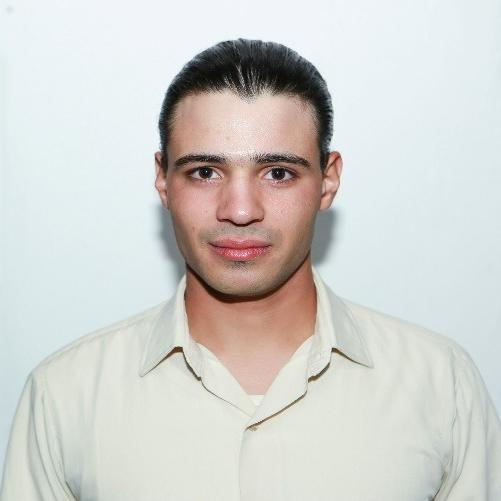
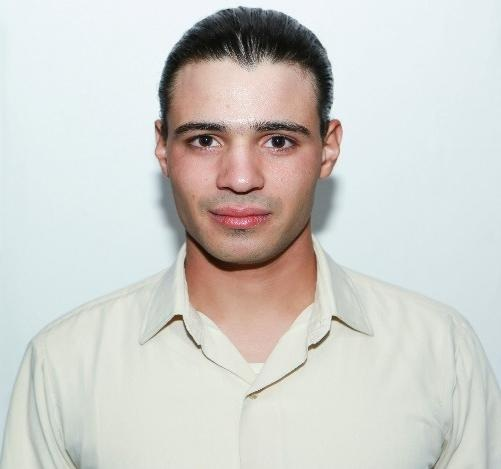
New color palette, general responsiveness, and custom navbar toggler implementation

diff --git a/src/css/Banner.css b/src/css/Banner.css
@@ -8,21 +8,21 @@ h1 {
 }
 
 #first-col {
+  min-height: 20rem;
   background-color: var(--color-primary);
-  flex-direction: column;
-  justify-content: space-between;
+  justify-content: flex-start;
 }
 
-.main-hero {
-  display: flex;
-  justify-content: space-between;
+/* animación de 'tipeo' */
+.typing-banner,
+.hero-image {
+  flex: 1 1 0;
+  min-width: 0;
 }
 
 .typing-banner {
-  display: inline-block;
-  min-height: 1.2rem;
-  max-width: 50%;
-  height: 15.9rem;
+  grid-area: txt;
+  min-width: 0;
   color: var(--color-accent);
   font-weight: 700;
 }
@@ -31,40 +31,50 @@ span.typing-cursor {
   font-size: .8em;
   display: inline-block;
   margin-left: 2px;
-  animation: blink 0.8s steps(2, start) infinite;
+  animation: blink 1s step-end infinite;
 }
 
 @keyframes blink {
-  to {
-    visibility: hidden;
+  0%, 100% {
+    opacity: 1;
   }
-}
-
-/* typing-cursor */
-.typing-cursor {
-  display: inline-block;
-  animation: blink 0.7s step-end infinite;
-}
-
-@keyframes blink {
-  50% {
+  60% {
     opacity: 0;
   }
 }
 
+/* Hero Banner Responsiveness */
+.hero-layout {
+  display: grid;
+  grid-template-columns: minmax(0, 1fr) minmax(0, 1fr);
+  grid-template-areas:
+    "txt img"
+    ".    btn";
+  height: 100%;
+  min-width: 0;
+  gap: 1.3rem 1.8rem;
+}
+
 .hero-image {
-  display: block;
-  flex: 0 0 calc(50% - 1rem);
+  grid-area: img;
   width: 100%;
   height: 20rem;
+  min-width: 0;
+  overflow: hidden;
 }
 .hero-image img {
   display: block;
   width: 100%;
   height: 100%;
-  object-fit: scale-down;
+  object-fit: cover;
+  object-position: center top;
 }
 
+.btn-content {
+  grid-area: btn;
+  justify-self: end;
+  align-self: end;
+}
 .btn-cta {
   display: inline-flex;
   background-color: var(--color-surface);
@@ -80,18 +90,72 @@ span.typing-cursor {
 }
 
 .btn-cta:hover {
-  transform: translateY(-2px);
+  transform: translate(-1px, -1px);
   box-shadow: 0 5px 14px rgba(0, 0, 0, 0.15);
 }
 
-@media (max-width: 576px) {
-  .hero-main {
-    flex-direction: column;
-    align-items: stretch;
+@media (max-width: 1999px) {
+  .hero-layout {
+    grid-template-columns: minmax(0, 1fr) auto;
+    grid-template-areas:
+      "txt   txt"
+      "img   btn";
+    align-items: end;
+    gap: 1rem 1.5rem;
+  }
+
+  .typing-banner {
+    min-height: 7rem;
+    height: auto;
+    margin-inline: 0 !important;
   }
 
   .hero-image {
-    flex-basis: auto;
+    height: clamp(18.5rem, 30vw, 26rem);
+    max-width: 26rem;
+  }
+
+  .btn-content {
+    margin-top: 1.5rem;
+  }
+}
+@media (max-width: 1060px) {
+  .hero-image {
+    max-width: 22rem;
+  }
+}
+@media (max-width: 764.99px) {
+  .hero-layout {
+    grid-template-columns: minmax(0, 1fr);
+    grid-template-areas:
+      "txt"
+      "img"
+      "btn";
+    row-gap: 1.25rem;
+  }
+  .hero-image {
+    max-width: 18rem;
+  }
+}
+@media (max-width: 868px) {
+  .typing-banner {
+    min-height: 6.5rem;
+  }
+}
+@media (max-width: 668px) {
+  .typing-banner {
+    min-height: 8.5rem;
+  }
+}
+@media (max-width: 548px) {
+  .typing-banner {
+    min-height: 7.7rem;
+  }
+}
+
+@media (max-width: 1999px) {
+  #second-col {
+    margin-top: 1rem;
   }
 }
 

diff --git a/src/components/Banner.jsx b/src/components/Banner.jsx
@@ -79,26 +79,26 @@ export const Banner = () => {
 
     const Carousel = CarouselModule.default; // parche de error de importación desconocido
 
-    return (        
-        <section id="home" className="p-3 pt-0">
+    return (
+        <section id="home" className="p-3 pt-0 mt-1">
             <Container fluid>
                 <Row className="my-3 mt-0">
-                    <Col id="first-col" className="p-4 rounded-5 d-flex">
-                        <div className="main-hero d-flex justify-content-between">
-                            <div className="mx-4 typing-banner">
+                    <Col id="first-col" className="p-4 rounded-3 d-flex flex-column">
+                        <div className="hero-layout">
+                            <div className="typing-banner">
                                 <h1>Hacé crecer tu negocio con
                                     <span> {text}</span><span className="typing-cursor">_</span></h1>
                                 <p></p>
                             </div>
-                            <div className="hero-image">
+                            <div className="hero-image rounded-3">
                                 <img src={hero} alt="perfil" />
                             </div>
-                        </div>
-                        <div className="btn-content ms-auto">
-                            <button className="btn-cta">Solicitar presupuesto <ArrowUpRight size={18} strokeWidth={2}/></button>
+                            <div className="btn-content ms-auto">
+                                <button className="btn-cta">Solicitar presupuesto <ArrowUpRight size={18} strokeWidth={2}/></button>
+                            </div>
                         </div>
                     </Col>
-                    <Col md={6}>
+                    <Col id="second-col" xl={6}>
                         <Carousel responsive={responsive} infinite={true} swipeable={true} draggable={true} className="services-carousel">
                             {
                                 services.map((service) => {
@@ -113,7 +113,7 @@ export const Banner = () => {
                                                     style={{ objectPosition: service.objectPosition ?? "center" }}
                                                 /> }
                                             </div>
-                                            <h2 className="carousel-title">{service.title}</h2>
+                                            <h2 className="carousel-title mt-4">{service.title}</h2>
                                             <p className="carousel-text">{service.body}</p>
                                         </div>
                                     );

diff --git a/src/css/NavBar.css b/src/css/NavBar.css
@@ -1,4 +1,5 @@
 .custom-navbar {
+  font-size: 1.1em;
   padding-inline: 2rem;
   background-color: transparent;
   box-shadow: none;
@@ -28,4 +29,82 @@
 
 .custom-navbar.navbar-scrolled a:hover {
   color: var(--color-surface);
+}
+
+.logo-container {
+  width: 32px;
+  flex-shrink: 0;
+}
+.logo-img {
+  display: block;
+  width: 100%;
+  height: auto;
+}
+
+.custom-navbar .brand-text,
+.custom-navbar .brand-description {
+  font-size: 1.1em;
+}
+
+.custom-expand > .container-fluid {
+  position: relative;
+}
+/* Menú "colapsado"/desplegado adaptado de Bootstrap */
+@media (max-width: 985.98px) {
+  .custom-expand .navbar-collapse .navbar-nav {
+    align-items: flex-end;
+  }
+  .custom-expand .navbar-collapse {
+    position: absolute;
+    top: calc(100% + var(--bs-navbar-padding-y));
+    right: 0;
+    left: auto;
+
+    width: max-content;
+    min-width: 12rem;
+    max-width: calc(100vw - 1rem);
+
+    padding: 0.5rem 1rem 2rem;
+    background-color: var(--color-primary);
+    border-radius: 0 0 0.65rem 0.65rem;
+    box-shadow: 0 8px 18px rgba(0, 0, 0, 0.2);
+    z-index: 3;
+  }
+}
+
+/* Menú "expandido" o base, sobre el navbar */
+@media (min-width: 986px) {
+  .custom-expand,
+  .custom-expand > .container-fluid {
+    flex-wrap: nowrap;
+  }
+
+  .custom-expand {
+    justify-content: flex-start;
+  }
+
+  .custom-expand .navbar-nav {
+    flex-direction: row;
+  }
+
+  .custom-expand .navbar-nav .dropdown-menu {
+    position: absolute;
+  }
+
+  .custom-expand .navbar-nav .nav-link {
+    padding-right: var(--bs-navbar-nav-link-padding-x);
+    padding-left: var(--bs-navbar-nav-link-padding-x);
+  }
+
+  .custom-expand .navbar-collapse {
+    position: static;
+    display: flex !important;
+    flex-basis: auto;
+    flex-grow: 1;
+    align-items: center;
+  }
+
+  .custom-expand .navbar-toggler {
+    display: none !important;
+  }
 }

diff --git a/src/components/NavBar.jsx b/src/components/NavBar.jsx
@@ -5,6 +5,7 @@ import NavDropdown from 'react-bootstrap/NavDropdown';
 import Button from 'react-bootstrap/Button';
 import { useState, useEffect } from 'react';
 import "../css/NavBar.css";
+import logo from "../assets/logo-dark.png";
 
 export const NavBar = () => {
   const [scrolled, setScrolled] = useState(false);
@@ -21,10 +22,13 @@ export const NavBar = () => {
   }, []);
 
   return (
-    <Navbar fixed="top" expand="md" className={`ps-1 custom-navbar ${scrolled ? 'navbar-scrolled' : ''}`}>
+    <Navbar fixed="top" expand={false} className={`ps-1 custom-navbar custom-expand ${scrolled ? 'navbar-scrolled' : ''}`}>
       <Container fluid className="ps-1">
-        <Navbar.Brand className="fw-semibold me-auto fs-5" href="/">Luca Rodríguez</Navbar.Brand>
-        <Navbar.Brand className="w-500 ms-2 me-auto fs-6" href="/">DESARROLLO WEB · SOFTWARE · SOLUCIONES DIGITALES</Navbar.Brand>
+        <div className="me-2 logo-container">
+          <img src={logo} alt="logo" className="logo-img" />
+        </div>
+        <Navbar.Brand className="fw-semibold me-auto brand-text" href="/">Luca Rodríguez</Navbar.Brand>
+        <Navbar.Brand className="w-500 ms-2 me-auto brand-description" href="/">DESARROLLO WEB · SOFTWARE · SOLUCIONES DIGITALES</Navbar.Brand>
         <Navbar.Toggle aria-controls="nav-body" />
         <Navbar.Collapse id="nav-body">
           <Nav className="ms-auto">

diff --git a/src/index.css b/src/index.css
@@ -2,25 +2,25 @@
 
 :root {
   /* Marca */
-  --color-primary: #123B52;
-  --color-accent: #19B6B0;
-  --color-interactive: #087F8C;
+  --color-primary: #101828;
+  --color-accent: #00E5C3;
+  --color-interactive: #00AFA5;
 
   /* Fondos */
-  --color-background: #F4F8FA;
+  --color-background: #F8FAFC;
   --color-surface: #FFFFFF;
 
   /* Texto */
-  --color-text: #263746;
-  --color-text-muted: #5C6F7D;
+  --color-text: #1E293B;
+  --color-text-muted: #64748B;
 
   /* Bordes */
-  --color-border: #DCE6EB;
+  --color-border: #334155;
 
   /* Estados */
-  --color-focus: #087F8C;
+  --color-focus: #0B1220;
 
-  
+
   background-color: var(--color-background);
 }
 

diff --git a/src/components/Contact.jsx b/src/components/Contact.jsx
@@ -72,7 +72,7 @@ export const Contact = () => {
         <section id="contact" className="contact-section py-5">
             <Container>
                 <Row className="justify-content-center">
-                    <Col xs={12} md={10} lg={8} className="pane-container">
+                    <Col xs={12} md={10} lg={8} className="pane-container rounded-2">
                         <h2 className="text-center mb-4">Contactame</h2>
 
                         <Tab.Container defaultActiveKey="gmail">

diff --git a/index.html b/index.html
@@ -2,7 +2,7 @@
 <html lang="en">
   <head>
     <meta charset="UTF-8" />
-    <link rel="icon" type="image/svg+xml" href="/favicon.svg" />
+    <link rel="icon" type="image/png" href="/favicon.png" />
     <meta name="viewport" content="width=device-width, initial-scale=1.0" />
     <title>Luca Ezequiel Rodriguez - Servicios Software</title>
   </head>

diff --git a/src/App.css b/src/App.css
@@ -5,7 +5,7 @@
 }
 
 main {
-  margin-top: 4rem;
+  margin-top: 4.2rem;
 }
 
 section {
